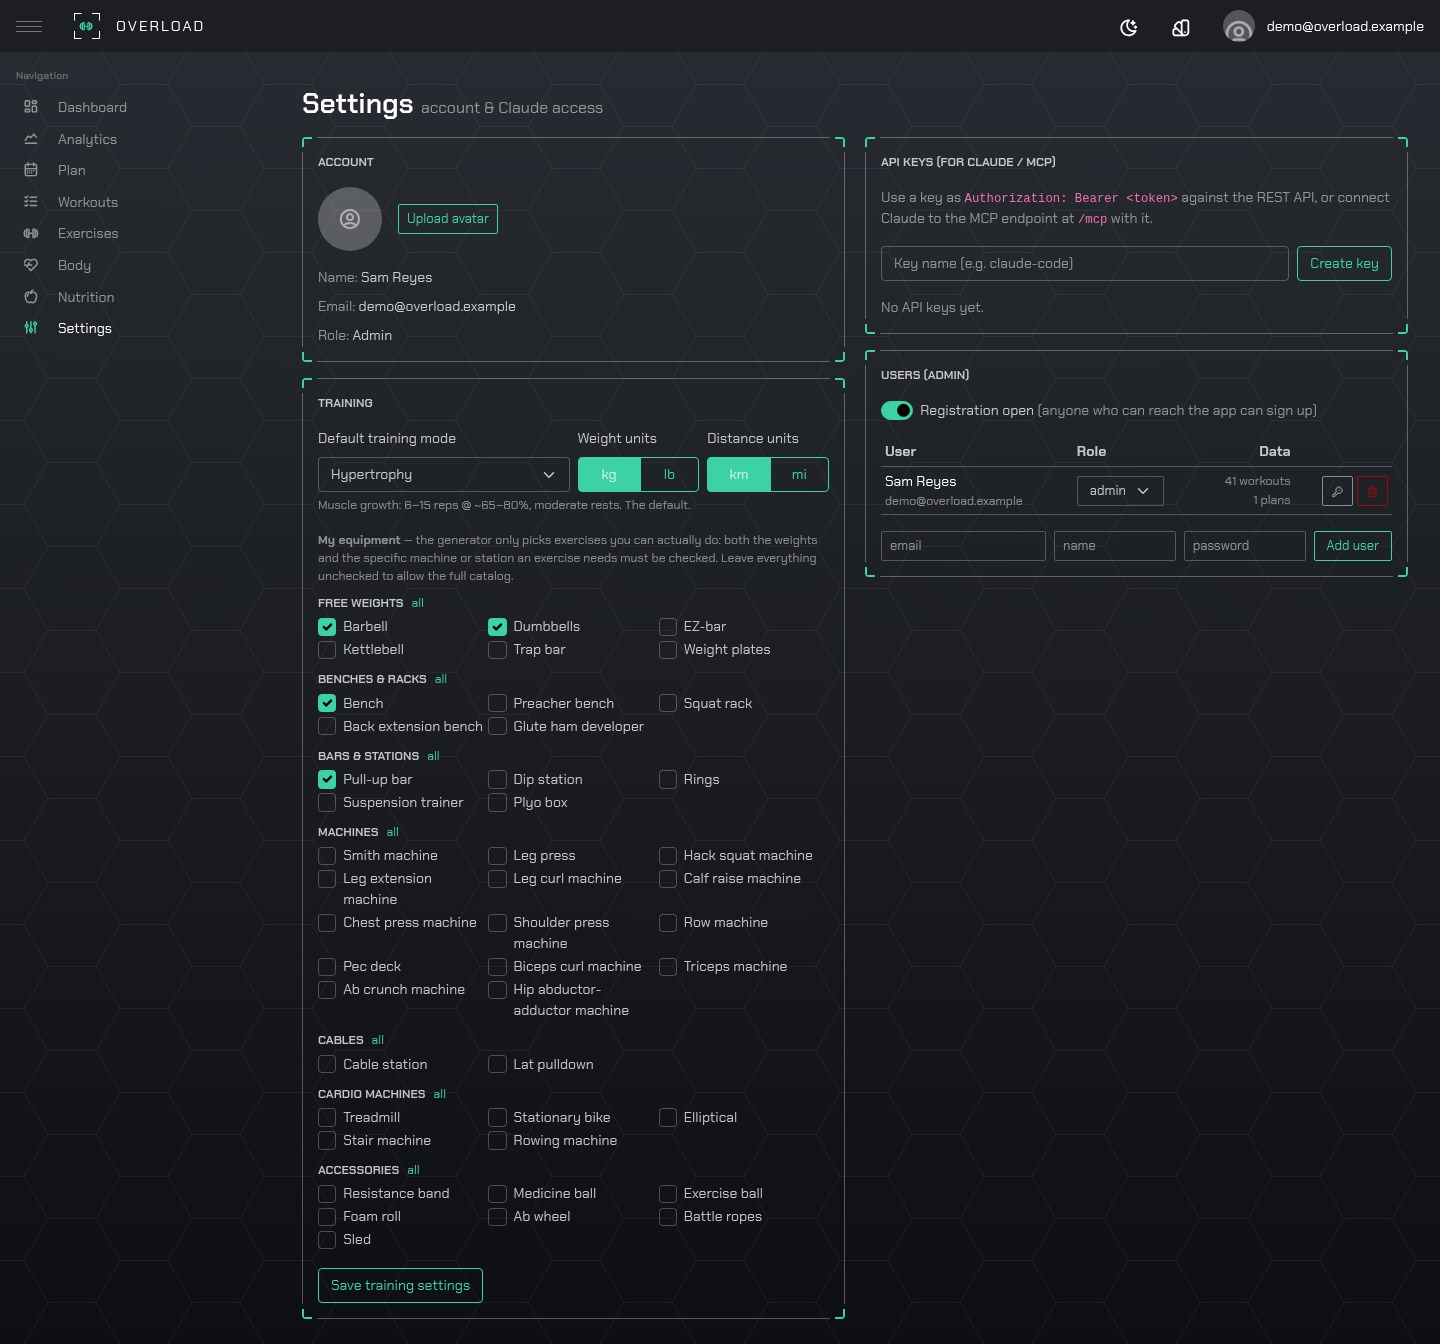
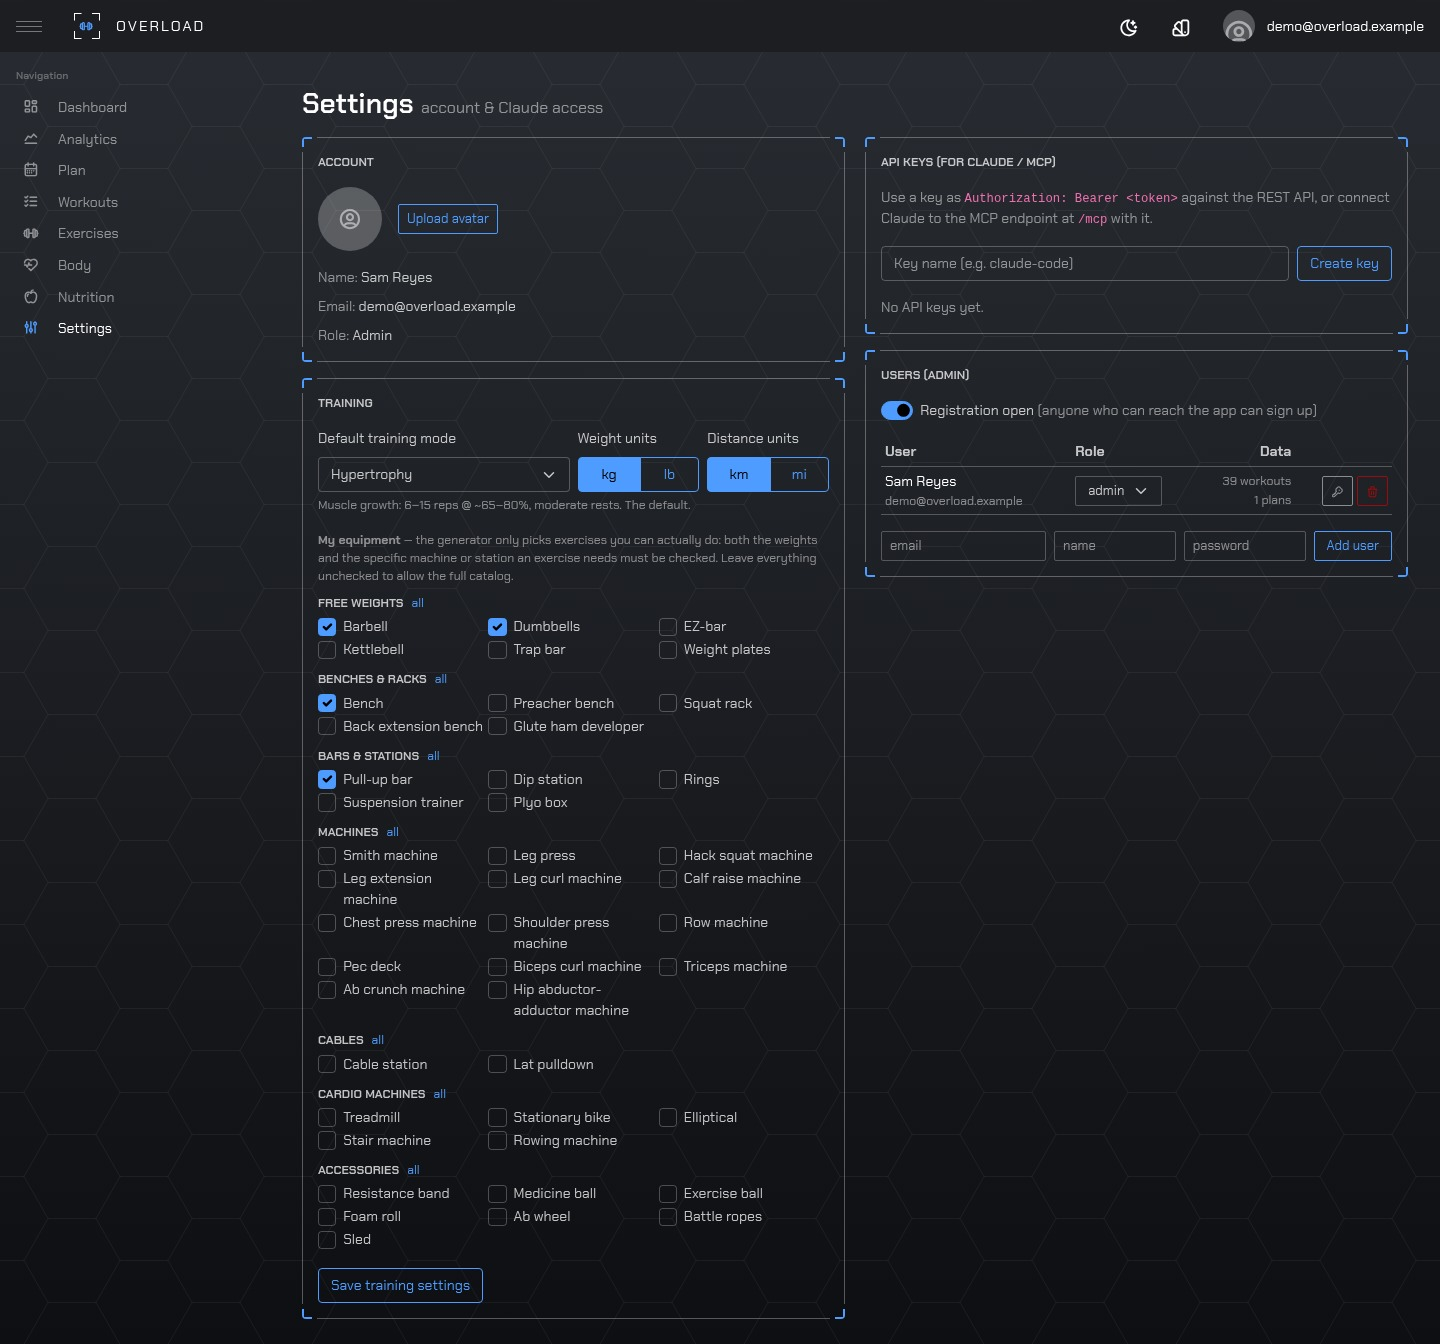
0.2.0: version in the app, algorithms in the README, blue screenshots, demo instance
Version. All four package.json move to 0.2.0. /api/v1/health reads the version
from apps/server/package.json instead of a hardcoded string that had already
drifted (the MCP server declared 1.0.0; it now shares the same constant), with
two candidate paths because tsup flattens dist. The web build bakes the root
version in via a Vite define and shows it in a new footer under the content.

README. Training modes and Effort ratings fold into one How-it-works section:
modes, the effort-adjusted Epley estimate, the prescription rules as a
numbered list, stall/deload conditions, the recovery decay model, and the
counting rules. A changelog sits at the bottom; the Development section gains
the release procedure.

Screenshots. All thirteen recaptured in the Blue accent with the demo data,
which now carries effort ratings (later sets skew harder, a third unrated,
same fixed seed). The live-logger shot catches the rest bar with the rating
chips open.

Demo instance. seed-demo.js ships in the image (new tsup entry), and a second
compose service overload-test runs the same image on :3003 against
./appdata-test — a playground to try changes on without touching the real
training log.

diff --git a/apps/server/src/app.ts b/apps/server/src/app.ts
@@ -6,6 +6,7 @@ import fastifyCompress from '@fastify/compress';
 import fastifyStatic from '@fastify/static';
 import { serializerCompiler, validatorCompiler, type ZodTypeProvider } from 'fastify-type-provider-zod';
 import authPlugin from './plugins/auth.js';
+import { APP_VERSION } from './lib/version.js';
 import authRoutes from './routes/auth.js';
 import apiKeyRoutes from './routes/api-keys.js';
 import exerciseRoutes from './routes/exercises.js';
@@ -31,7 +32,7 @@ export async function buildServer(options: { logger?: boolean } = {}) {
     maxAge: '7d',
   });
 
-  app.get('/api/v1/health', async () => ({ status: 'ok', version: '0.1.0' }));
+  app.get('/api/v1/health', async () => ({ status: 'ok', version: APP_VERSION }));
   await app.register(authRoutes, { prefix: '/api/v1/auth' });
   await app.register(apiKeyRoutes, { prefix: '/api/v1/api-keys' });
   await app.register(exerciseRoutes, { prefix: '/api/v1/exercises' });

diff --git a/apps/server/src/lib/version.ts b/apps/server/src/lib/version.ts
@@ -1,0 +1,22 @@
+import { existsSync, readFileSync } from 'node:fs';
+import { fileURLToPath } from 'node:url';
+
+/**
+ * The app version, read from apps/server/package.json at startup.
+ *
+ * Two candidate paths because tsup flattens the bundle: in dev this file runs
+ * from src/lib/ (two levels under apps/server), in the build it is inlined
+ * into dist/index.js (one level). Read once — it cannot change while the
+ * process lives.
+ */
+function readVersion(): string {
+  for (const rel of ['../package.json', '../../package.json']) {
+    const p = fileURLToPath(new URL(rel, import.meta.url));
+    if (!existsSync(p)) continue;
+    const pkg = JSON.parse(readFileSync(p, 'utf8'));
+    if (pkg.name === '@overload/server') return pkg.version;
+  }
+  return '0.0.0';
+}
+
+export const APP_VERSION: string = readVersion();

diff --git a/apps/server/src/mcp/server.ts b/apps/server/src/mcp/server.ts
@@ -1,4 +1,5 @@
 import { McpServer } from '@modelcontextprotocol/sdk/server/mcp.js';
+import { APP_VERSION } from '../lib/version.js';
 import { z } from 'zod';
 import type { User } from '@prisma/client';
 import {
@@ -88,7 +89,7 @@ function fmtSet(s: { reps: number | null; weightKg: number | null; durationSec: 
 }
 
 export function buildMcpServer(user: User): McpServer {
-  const server = new McpServer({ name: 'overload', version: '1.0.0' }, { instructions: SERVER_INSTRUCTIONS });
+  const server = new McpServer({ name: 'overload', version: APP_VERSION }, { instructions: SERVER_INSTRUCTIONS });
   const userId = user.id;
 
   // The full catalog as a cacheable resource (id | name | equipment/apparatus | primary muscles).

diff --git a/apps/web/vite.config.ts b/apps/web/vite.config.ts
@@ -1,3 +1,4 @@
+import { readFileSync } from "node:fs";
 import { fileURLToPath, URL } from "url";
 
 import { defineConfig } from "vite";
@@ -5,7 +6,12 @@ import vue from "@vitejs/plugin-vue";
 import vueJsx from "@vitejs/plugin-vue-jsx";
 
 // https://vitejs.dev/config/
+// Single source of truth for the version shown in the footer: the root
+// package.json, baked in at build time.
+const pkg = JSON.parse(readFileSync(new URL("../../package.json", import.meta.url), "utf8"));
+
 export default defineConfig({
+  define: { __APP_VERSION__: JSON.stringify(pkg.version) },
   plugins: [vue(), vueJsx()],
   resolve: {
     alias: {

diff --git a/apps/web/src/App.vue b/apps/web/src/App.vue
@@ -9,6 +9,7 @@ import { useTheme } from '@/composables/theme';
 import router from './router';
 
 const appOption = useAppOptionStore();
+const version = __APP_VERSION__;
 const theme = useTheme();
 
 onMounted(() => theme.restoreTheme());
@@ -48,6 +49,9 @@ document.querySelector('body')!.classList.add('app-init');
 		<app-sidebar v-if="!appOption.appSidebarHide" />
 		<div class="app-content" v-bind:class="appOption.appContentClass">
 			<router-view></router-view>
+			<footer class="text-center small text-inverse text-opacity-25 pt-4 pb-3">
+				Overload v{{ version }}
+			</footer>
 		</div>
 	</div>
 </template>

diff --git a/apps/server/prisma/seed-demo.ts b/apps/server/prisma/seed-demo.ts
@@ -225,7 +225,9 @@ async function main() {
         durationSec: lift.seconds ? jitter((lift.seconds[0] + lift.seconds[1]) / 2, 8) : null,
         isWarmup: false,
         multiplier: loadFactors.get(lift.id) ?? 1,
-        rpe: pick([7, 7.5, 8, 8, 8.5, 9]),
+        // Rated like a person, not a sensor: later sets skew harder, and about
+        // a third go unrated because nobody rates everything.
+        rpe: rand() < 0.35 ? null : pick(s === lift.sets - 1 ? [8, 8.5, 9, 9.5] : [7, 7.5, 8, 8.5]),
         completedAt: new Date(),
       });
     }

diff --git a/apps/server/src/app.integration.test.ts b/apps/server/src/app.integration.test.ts
@@ -62,6 +62,9 @@ describe('auth', () => {
     const res = await app.inject({ method: 'GET', url: '/api/v1/health' });
     expect(res.statusCode).toBe(200);
     expect(res.json().status).toBe('ok');
+    // The version comes from package.json, not a string someone forgets to bump.
+    expect(res.json().version).toMatch(/^\d+\.\d+\.\d+$/);
+    expect(res.json().version).not.toBe('0.0.0');
   });
 
   it('registers the first user as admin and starts a session', async () => {

diff --git a/apps/server/tsup.config.ts b/apps/server/tsup.config.ts
@@ -1,7 +1,7 @@
 import { defineConfig } from 'tsup';
 
 export default defineConfig({
-  entry: { index: 'src/index.ts', seed: 'prisma/seed.ts' },
+  entry: { index: 'src/index.ts', seed: 'prisma/seed.ts', 'seed-demo': 'prisma/seed-demo.ts' },
   format: ['esm'],
   target: 'node22',
   sourcemap: true,

diff --git a/apps/web/env.d.ts b/apps/web/env.d.ts
@@ -6,3 +6,6 @@ declare module '*.vue' {
   const component: DefineComponent<{}, {}, any>;
   export default component;
 }
+
+/** Injected by Vite's `define` from the root package.json version. */
+declare const __APP_VERSION__: string;

diff --git a/README.md b/README.md
@@ -20,7 +20,7 @@ an MCP server so Claude keeps working with the training data after the code is d
 navigate away; every set you have already logged stays on screen while you add the next one.
 
 <p align="center">
-  <img src="assets/screenshots/mobile-live.jpg" alt="Logging a set mid-session, rest timer counting down" width="245">
+  <img src="assets/screenshots/mobile-live.jpg" alt="Logging a set mid-session: rest timer counting down and the effort-rating prompt open" width="245">
   <img src="assets/screenshots/mobile-analytics.jpg" alt="Analytics on a phone" width="245">
   <img src="assets/screenshots/mobile-workouts.jpg" alt="Workout list, upcoming and history" width="245">
 </p>
@@ -269,69 +269,78 @@ Open http://localhost:5173 and register.
 
 - Tests: `npm test` (unit + integration suite against a scratch SQLite db)
 - Refresh exercise catalog: `scripts/fetch-exercise-db.sh` (`.ps1` on Windows), then `npm run db:seed`
+- Release: `npm version <x.y.z> -ws --include-workspace-root --no-git-tag-version`, add a
+  changelog entry, commit, tag `v<x.y.z>`, push — the tag builds and publishes the Docker image
 - Layout: `apps/server` (Fastify + Prisma + SQLite), `apps/web` (Vue 3 + Vite, HUD theme), `packages/shared` (zod schemas)
 
-## Training modes
+## How it works
 
-The generator prescribes by mode (default in Settings; override per plan day or per generate call):
+All decisions are deterministic rules in `apps/server/src/services` — no model, no cloud, same
+inputs → same plan. Claude can override any of it over MCP; these are the defaults.
+
+### Training modes
+
+Default in Settings; override per plan day or per generate call.
 
 | Mode | Reps (compound / isolation) | Load | Sets | Rest |
 |---|---|---|---|---|
-| strength | 3–6 / 6–10 | ~85–95% e1RM + warm-up ramp | 5 / 3 | 3:00 |
-| hypertrophy (default) | 6–10 / 10–15 | ~65–80% e1RM | 3 / 3 | 1:30 |
-| endurance | 15–20 / 15–25 | ~40–60% e1RM | 3 / 2 | 1:00 |
-| power | 3–5 (explosive compounds only) | ~50% e1RM, fast reps | 4 | 3:00 |
+| strength | 3–6 / 6–10 | ~95% of rep-max + warm-up ramp | 5 / 3 | 3:00 |
+| hypertrophy (default) | 6–10 / 10–15 | ~95% of rep-max | 3 / 3 | 1:30 |
+| endurance | 15–20 / 15–25 | ~90% of rep-max | 3 / 2 | 1:00 |
+| power | 3–5, explosive compounds only | 50% e1RM, moved fast | 4 | 3:00 |
 
-Weights anchor to the [Epley e1RM estimate](https://en.wikipedia.org/wiki/One-repetition_maximum#Epley_formula)
-(`e1RM = weight × (1 + reps / 30)`). Within a mode: double progression
-(top of range on all sets → add load; 3 stalled sessions → −10% deload).
-Switching modes re-derives the weight from e1RM.
+### Estimating strength
 
-## Effort ratings
+- Every working set yields an [Epley](https://en.wikipedia.org/wiki/One-repetition_maximum#Epley_formula) estimate: `e1RM = weight × (1 + reps / 30)`, reps capped at 12.
+- An effort rating adjusts the reps first: rated RPE 8 with 8 reps counts as a 10-rep effort
+  (`reps + reps-in-reserve`). Unrated sets count as taken to failure — the classic assumption.
+- The best estimate across the last 3 sessions anchors the prescription.
 
-After you log a set the rest bar asks how hard it was. Tapping a number is optional — skip it and
-everything behaves exactly as it did before — but it is the difference between the app counting
-your reps and the app knowing what they cost.
+### Prescribing the next weight
 
-The scale is **reps in reserve**, not a feeling out of ten. Each value is a claim about how many
-more reps you had:
+Double progression, bounded by the estimate:
 
-| | reps left | means |
-|---|---|---|
-| **10** | 0 | nothing left — could not have done one more |
-| **9.5** | ~0 | no more reps, but you could have held a touch more weight |
-| **9** | 1 | one more, definitely |
-| **8.5** | 1–2 | certainly one more, probably not two |
-| **8** | 2 | two more |
-| **7** | 3 | three more |
-| **6** | 4 | four more |
+1. Top of the rep range reached on all top-weight sets → add one increment; otherwise repeat the weight.
+2. The effort rating sizes the jump: ≤ 6 → two increments; 9 or harder → hold; unrated or 7–8.5 → one.
+3. Never above the weight where the *bottom* of the range would be a max effort; never below a weight already handled.
+4. Increments: barbell/machine/cable 5 lb or 2.5 kg (doubled for lower-body strength work), dumbbells 5 lb or 2 kg, bodyweight and bands 0.
+5. Everything is rounded onto the lifter's own plate grid — an lb lifter gets whole 5 lb steps, not converted kg.
+6. Strength mode adds a 40 / 60 / 80% warm-up ramp when the working weight is ≥ 40 kg.
 
-Halves exist only above 8 because that is where they change a decision. Lower down nobody can
-tell three reps in reserve from four, and the app treats 7 and 8 the same anyway.
+### Stalls and deloads
 
-**What it changes.** Three things, all of which fall back to today's behaviour when a set is
-unrated:
+- 3 sessions with no new weight or reps → −10%, rebuilt from clean reps.
+- 2 sessions rated 9.5+ with nothing gained → −10% immediately; grinding is not worth a third week.
+- 3 flat sessions all rated ≤ 7 → no deload; that is a weight never pushed, not a stall.
+- Plan deload weeks run at 60% of prescribed sets, −10% load.
 
-- **The 1RM estimate.** Epley assumes every set went to failure, so it reads low and by an amount
-  that shifts session to session. A rating fixes that: `8 × 60 kg` at RPE 8 is a 10-rep effort, so
-  **80 kg** rather than 76. An unrated set means 0 reps in reserve, which is precisely what the
-  estimate always assumed — so nothing already logged moves.
-- **The size of the jump**, once you reach the top of the rep range. From a 60 kg top set:
+### Effort scale
 
-  | rating | next session |
-  |---|---|
-  | 6 | 65 kg — two steps, you were under-loaded |
-  | 7, 8, 8.5 | 62.5 kg — one step, as usual |
-  | 9, 9.5, 10 | 60 kg — hold it, earn the reps clean first |
-  | unrated | 62.5 kg |
+Ratings are reps in reserve, not a feeling out of ten. Optional — an unrated set behaves exactly
+as it always did.
 
-  The hardest of your top-weight sets decides, not the average: one easy set does not undo a grind.
-- **Stalls, in both directions.** Two sessions at **9.5 or 10** with nothing gained deloads
-  immediately, rather than waiting out a third week under a weight that is already too heavy. And
-  three flat sessions that all felt **7 or easier** no longer deload at all — that is not a stall,
-  it is a lifter who never pushed, and cutting 10% is the wrong answer.
+| rating | reps left | rating | reps left |
+|---|---|---|---|
+| 10 | 0 | 8 | 2 |
+| 9.5 | last rep, but the bar wasn't the limit | 7 | 3 |
+| 9 | 1 | 6 | 4 |
+| 8.5 | 1–2 | | |
 
-Epley stops being meaningful past 12 reps, so on high-rep work a rating cannot raise the estimate.
+### Recovery
+
+Per-muscle fatigue is a sum of exponentially decaying set-equivalents: a primary-muscle working
+set adds 1, a secondary 0.5, and the contribution halves-off with a time constant of 48 h for
+large muscles (quads, hamstrings, glutes, back, chest) and 36 h for the rest. A muscle is fresh
+below 2.0 set-equivalents. Freestyle generation picks the freshest muscle group; the dashboard
+recovery panel is the same numbers.
+
+### Counting rules
+
+- Volume = reps × weight × multiplier. The multiplier is implements × sides
+  (a pair of dumbbells used one leg at a time = ×4) and is seeded per exercise, editable per set.
+- Warm-up sets are excluded from volume, records and estimates everywhere.
+- Weekly sets per muscle: primary counts 1, secondary 0.5.
+- Weekly charts zero-fill gaps — a skipped week shows as zero, not as a missing bar.
 
 ## Notes
 
@@ -359,3 +368,24 @@ The exercise dataset originates with [Ollie Jennings](https://github.com/jhonnyx
 free-exercise-db credits as its source. It is public domain and carries no attribution
 requirement; it is credited here because it is the larger part of this repository by size and
 none of it is our work.
+
+## Changelog
+
+### 0.2.0
+
+- Effort ratings (RPE): asked on the rest bar after each set, tap any logged set to rate or fix
+  it later, half steps above 8. Ratings feed the strength estimate, the size of the next jump,
+  and stall/deload detection.
+- Prescribed weights land on the lifter's plate grid — whole 5 lb steps for lb users instead of
+  converted kg values like 35.3 lb.
+- Charts: dragging reads out values instead of zooming, tooltips snap to the nearest point,
+  stacked macro tooltip shows all three series, no more text selection on touch.
+- Live cardio: the minutes field follows the session clock, and cardio sets no longer start a
+  rest countdown.
+- iOS fixes: pinch-zoom no longer crashes the tab (backdrop collapsed to one layer).
+- Run-without-Docker guide, published Docker image, demo dataset, version in the footer.
+
+### 0.1.0
+
+- Initial release: workout builder and generator, live logger, analytics, body and nutrition
+  tracking, exercise catalog, admin user management, MCP server for Claude.
